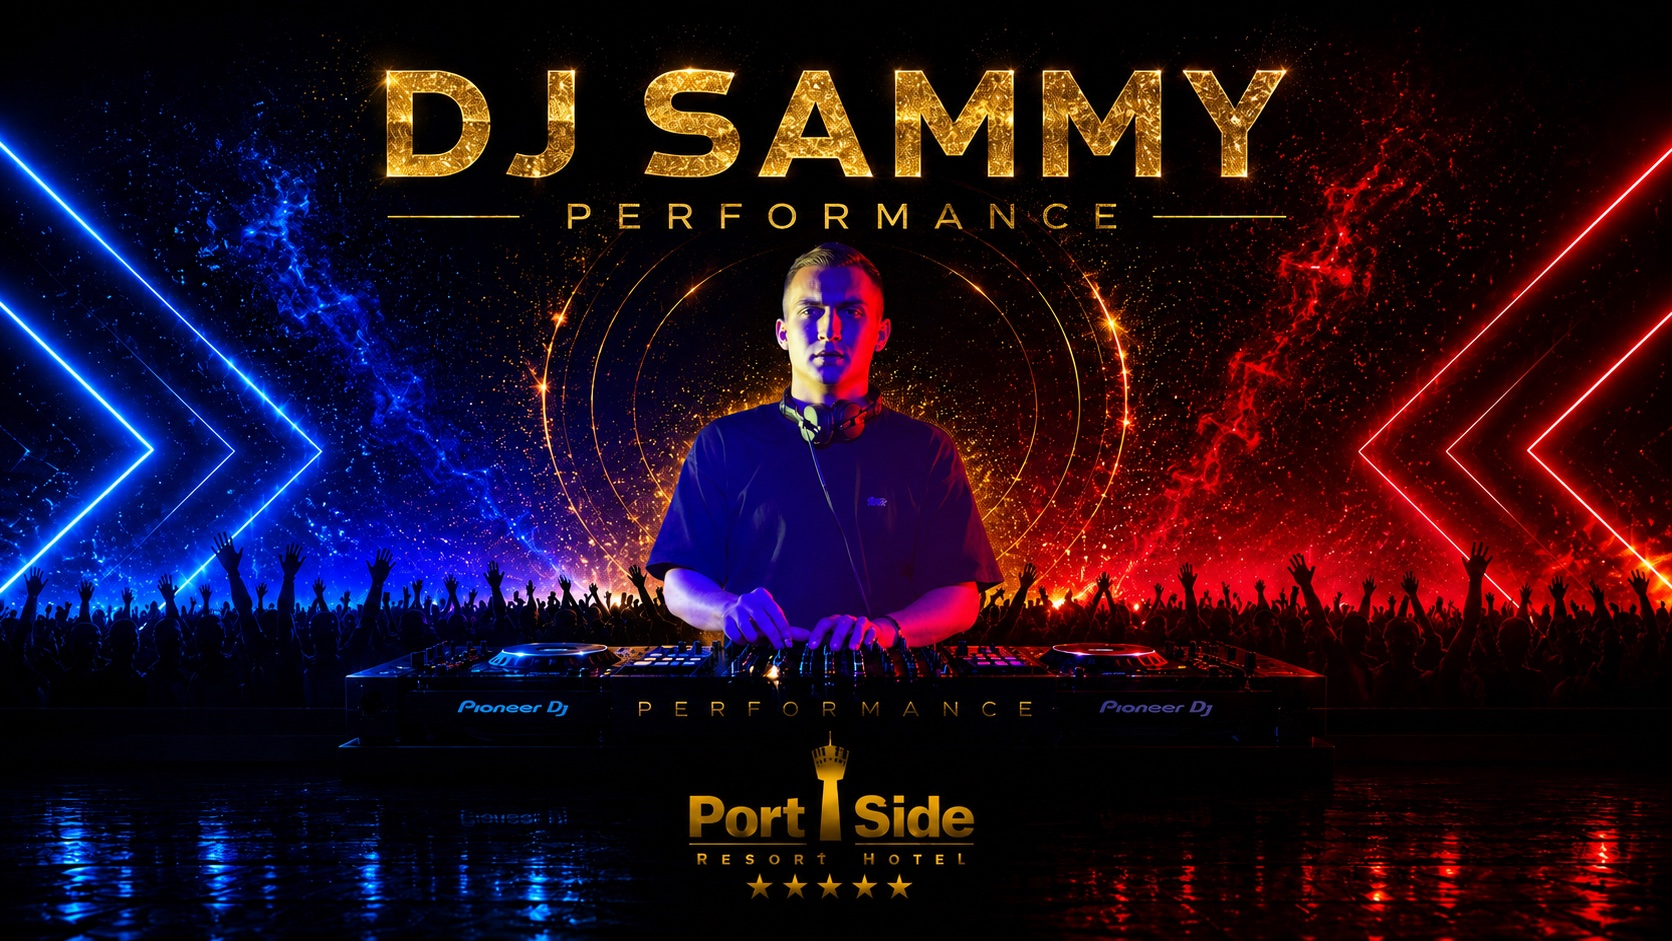
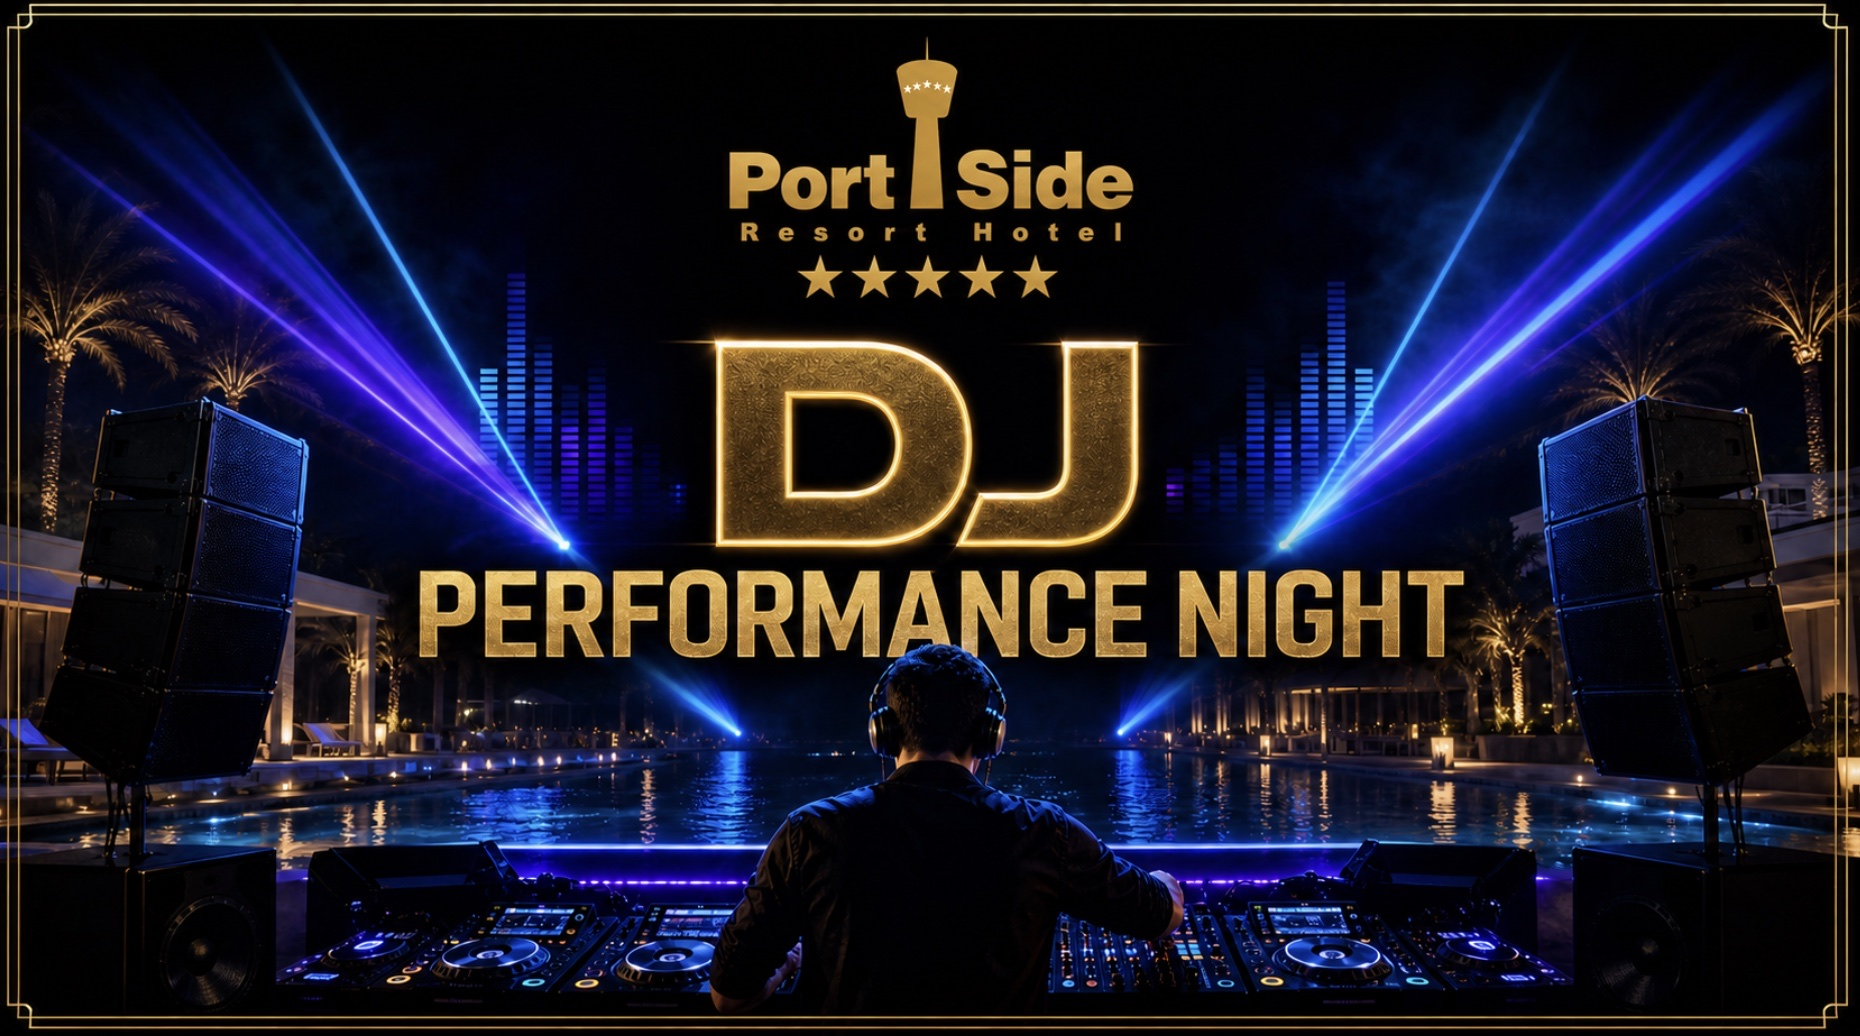
Add files via upload

diff --git a/service-worker.js b/service-worker.js
@@ -1,4 +1,4 @@
-const CACHE_NAME = "port-side-v25-gallery-coming-soon";
+const CACHE_NAME = "port-side-v26-sunday-dj-poster";
 const FILES = [
   "./",
   "./index.html",